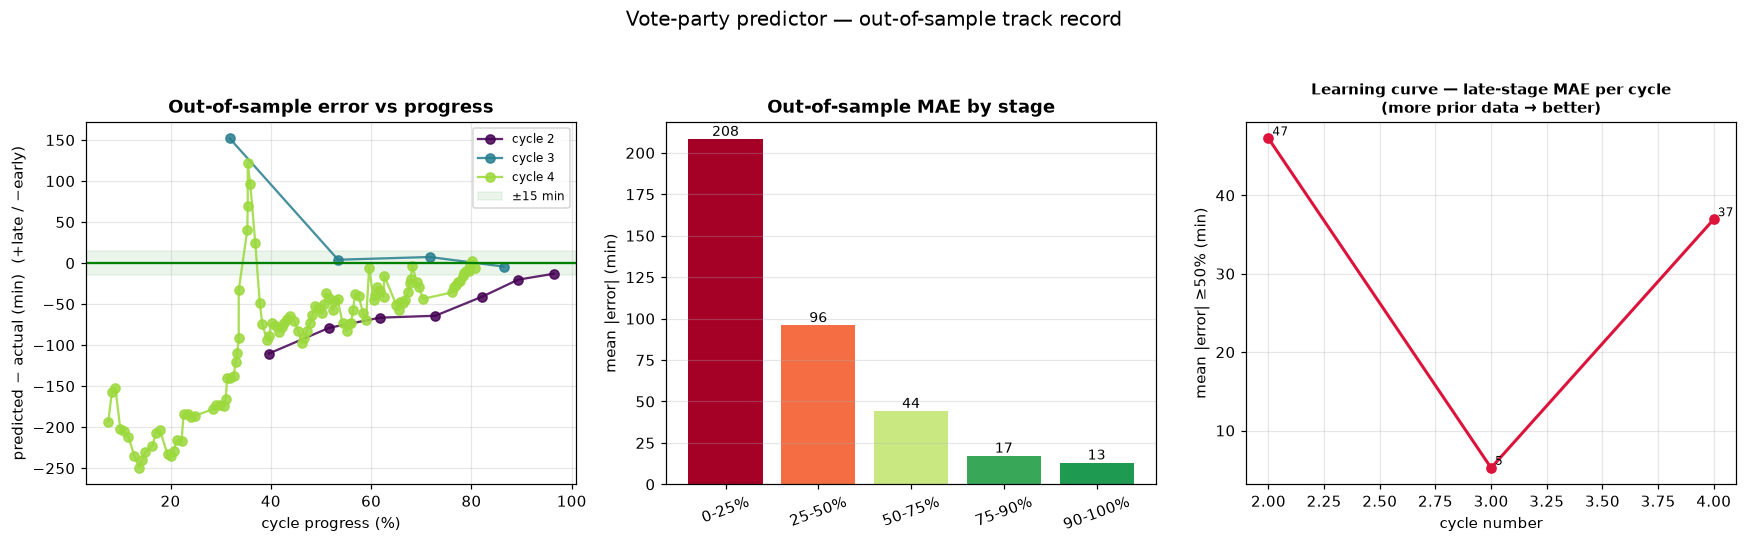
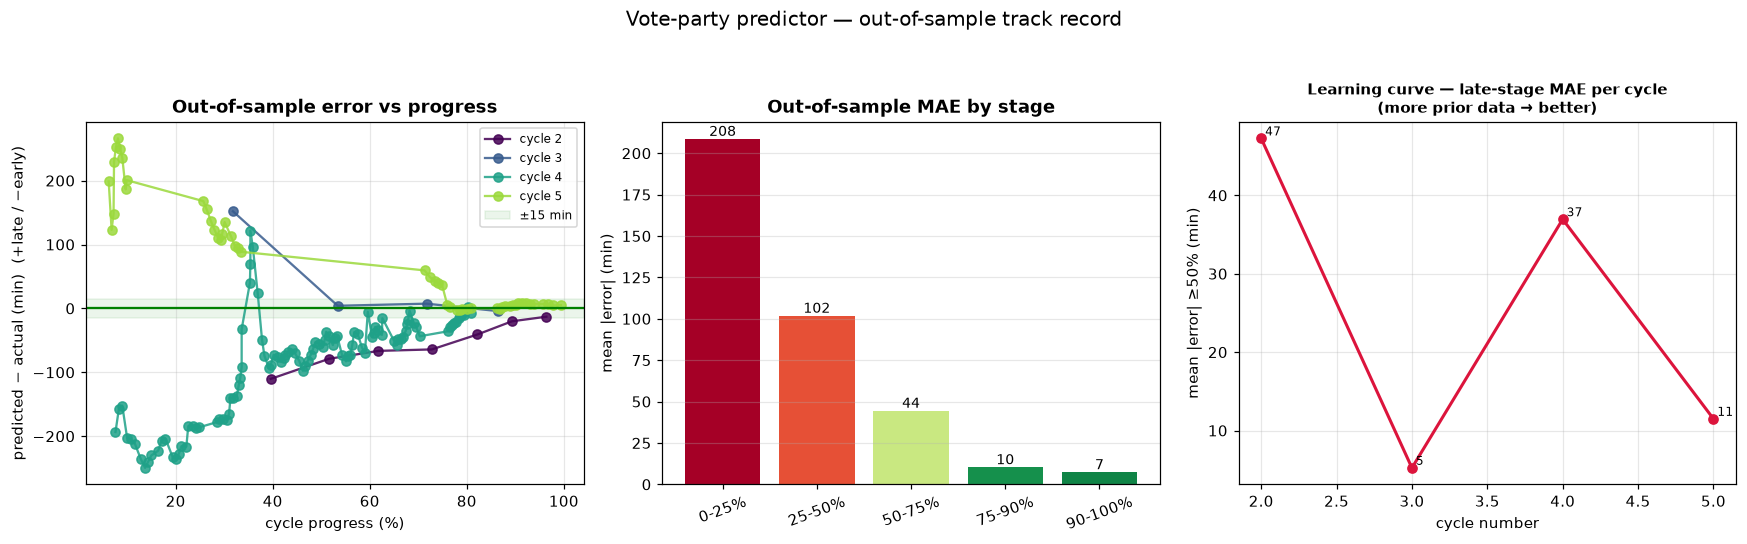
chore: vote party data window ending 2026-07-19T15:18:01Z

diff --git a/data/PREDICTION.md b/data/PREDICTION.md
@@ -1,27 +1,27 @@
 # Vote Party Prediction
 
-_Generated 2026-07-19T13:52:00Z — recomputed every data update._
+_Generated 2026-07-19T15:17:36Z — recomputed every data update._
 
-**Progress:** 355 / 5000.0 (7.1%) — 4645 remaining
-**Players online:** 589  |  **Cycle started:** 2026-07-19T13:17:01Z  |  **Data points this cycle:** 8
+**Progress:** 979 / 5000.0 (19.6%) — 4021 remaining
+**Players online:** 545  |  **Cycle started:** 2026-07-19T13:17:01Z  |  **Data points this cycle:** 20
 
 ## 🎯 Ensemble prediction
 
-**Vote party fires ≈ `2026-07-20T01:54:43Z`**
-Calibrated confidence: **±117 min** (`2026-07-19T23:57:41Z` → `2026-07-20T03:51:44Z`) — the ensemble's measured error at this cycle stage.
-Model spread: `2026-07-19T22:30:15Z` → `2026-07-20T03:37:00Z`
+**Vote party fires ≈ `2026-07-20T02:11:16Z`**
+Calibrated confidence: **±117 min** (`2026-07-20T00:14:14Z` → `2026-07-20T04:08:17Z`) — the ensemble's measured error at this cycle stage.
+Model spread: `2026-07-20T00:00:54Z` → `2026-07-20T03:17:36Z`
 
 ## Individual models
 
 | Model | Predicted ETA | Weight | Backtest RMSE |
 |-------|---------------|--------|---------------|
-| diurnal | 2026-07-20T03:37:00Z | 0.527 | 1.06707 |
-| shrinkage | 2026-07-20T01:28:51Z | 0.156 | 1.98583 |
-| wls | 2026-07-19T22:49:21Z | 0.066 | 2.93923 |
-| linear | 2026-07-19T22:34:25Z | 0.061 | 3.05697 |
-| ewma | 2026-07-19T23:22:12Z | 0.057 | 3.16131 |
-| theilsen | 2026-07-19T22:30:15Z | 0.055 | 3.25194 |
-| recent | 2026-07-19T23:41:04Z | 0.042 | 3.69949 |
+| diurnal | 2026-07-20T03:17:36Z | 0.527 | 1.06707 |
+| shrinkage | 2026-07-20T01:19:39Z | 0.156 | 1.98583 |
+| wls | 2026-07-20T00:22:51Z | 0.066 | 2.93923 |
+| linear | 2026-07-20T00:00:54Z | 0.061 | 3.05697 |
+| ewma | 2026-07-20T01:22:23Z | 0.057 | 3.16131 |
+| theilsen | 2026-07-20T00:06:05Z | 0.055 | 3.25194 |
+| recent | 2026-07-20T01:19:08Z | 0.042 | 3.69949 |
 | quadratic | n/a | 0.037 | 3.68622 |
 
 Weights come from a rolling-origin backtest on completed cycles (leave-one-out for history-aware models): each model's inverse mean-squared extrapolation error, normalised. See `prediction.png`.

diff --git a/data/PREDICTION_LOG.md b/data/PREDICTION_LOG.md
@@ -2,9 +2,9 @@
 
 Causal reconstruction — each prediction used only cycles that finished *before* its cycle began. This is the honest real-world scorecard.
 
-**Resolved predictions:** 117  |  **Overall MAE:** 88.5 min  |  **Bias:** -79.7 min
+**Resolved predictions:** 167  |  **Overall MAE:** 85.1 min  |  **Bias:** -32.8 min
 
-**MAE by stage:** 0-25% = 208.3min  ·  25-50% = 95.9min  ·  50-75% = 44.1min  ·  75-90% = 17.2min  ·  90-100% = 13.0min
+**MAE by stage:** 0-25% = 208.5min  ·  25-50% = 101.7min  ·  50-75% = 44.3min  ·  75-90% = 10.2min  ·  90-100% = 7.2min
 
 ## Per-cycle snapshots
 
@@ -13,5 +13,6 @@ Causal reconstruction — each prediction used only cycles that finished *before
 | 2 | 2026-07-17T22:48:53Z | -79m | -64m | -20m |
 | 3 | 2026-07-18T11:33:30Z | +4m | +7m | -4m |
 | 4 | 2026-07-19T02:06:40Z | -61m | -36m | -6m |
+| 5 | 2026-07-19T13:14:36Z | — | +37m | +6m |
 
 Values are ensemble error (predicted − actual firing), minutes; + = predicted too late. See `prediction_track.png`.
